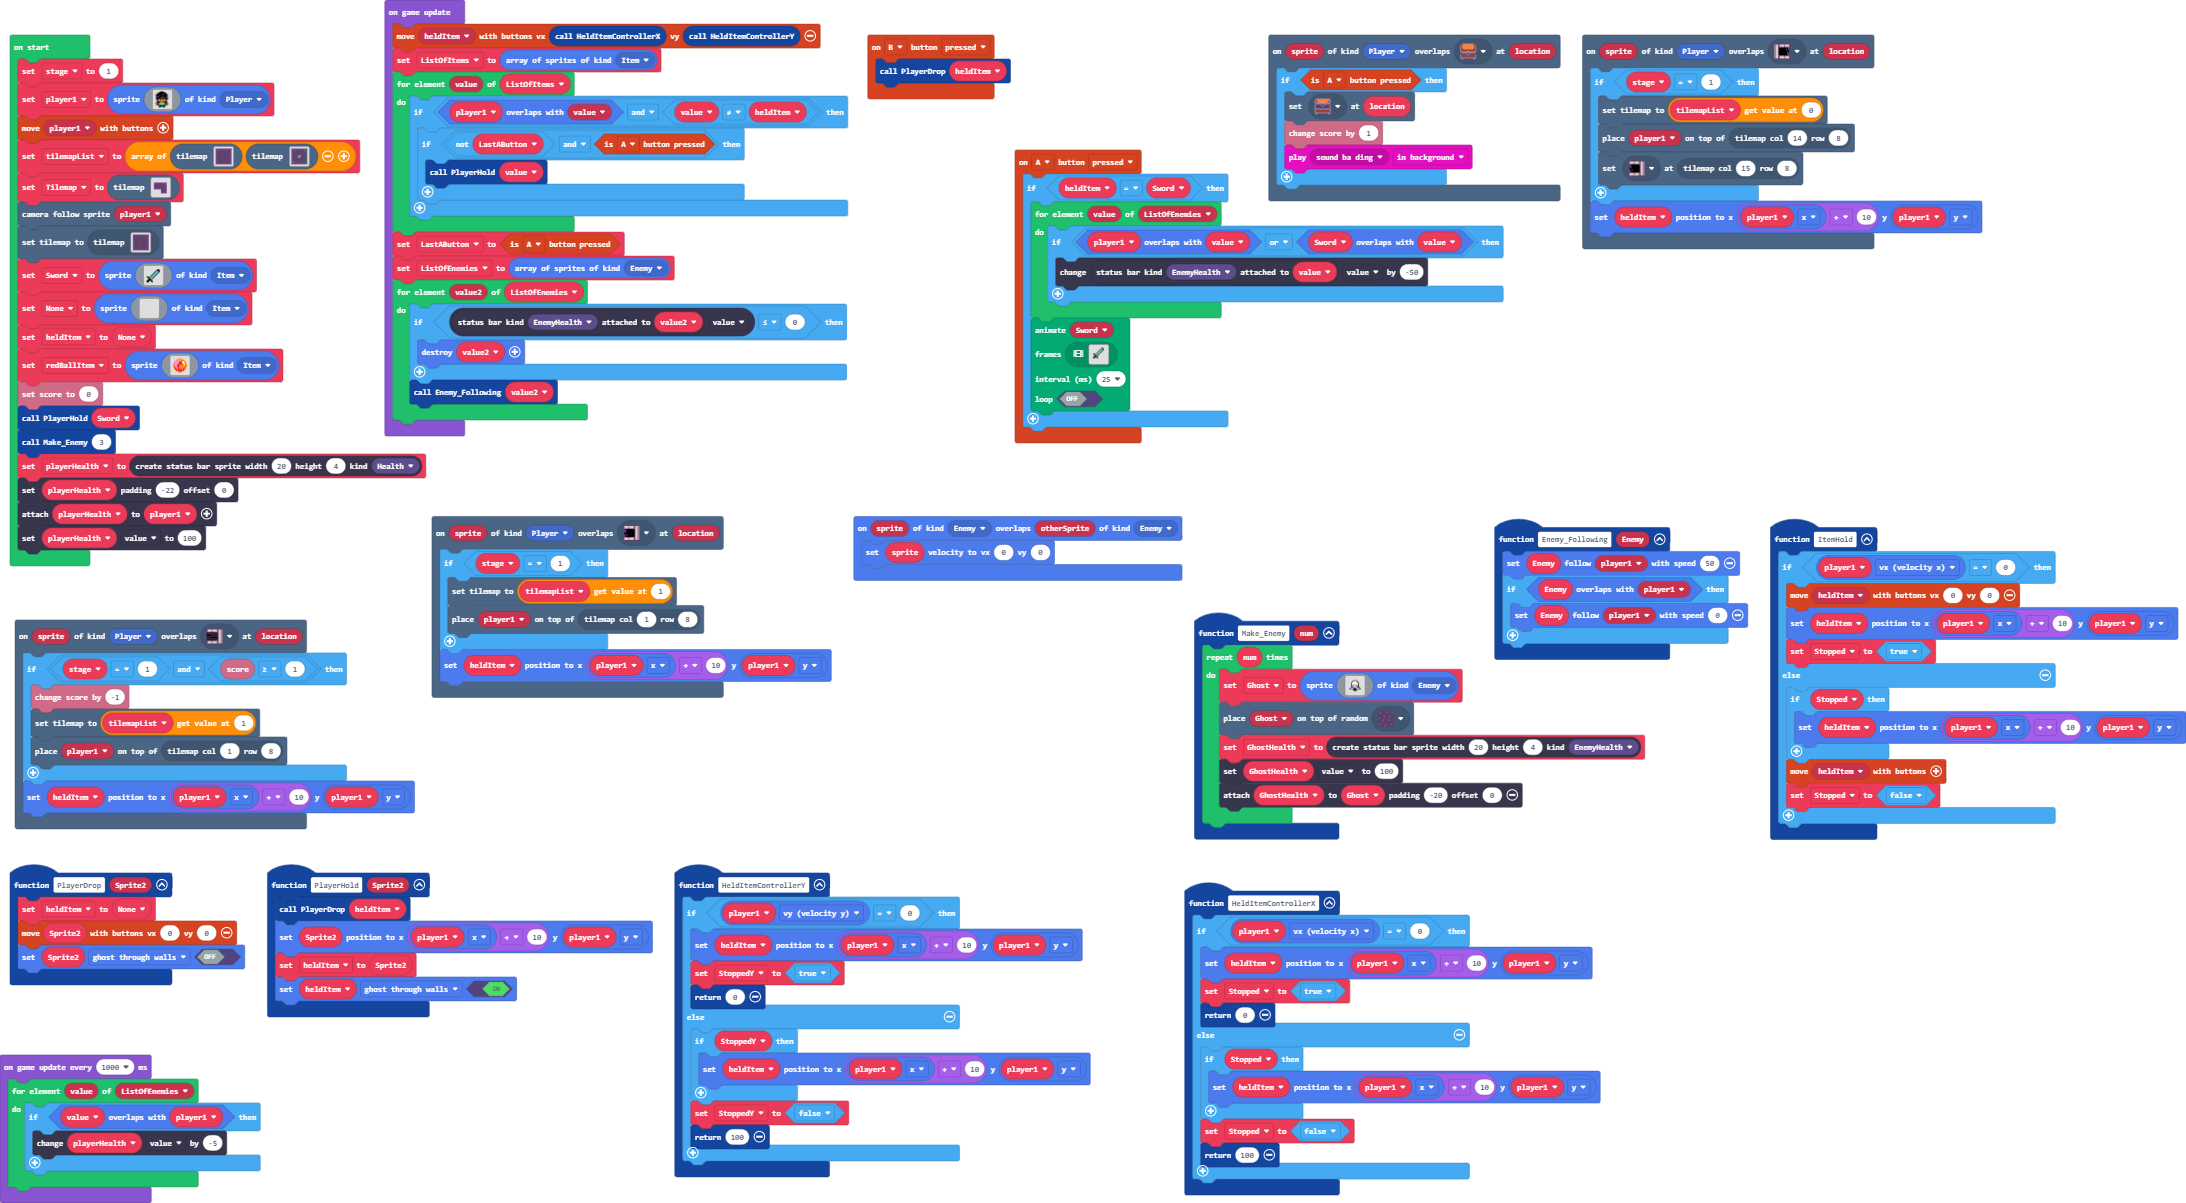
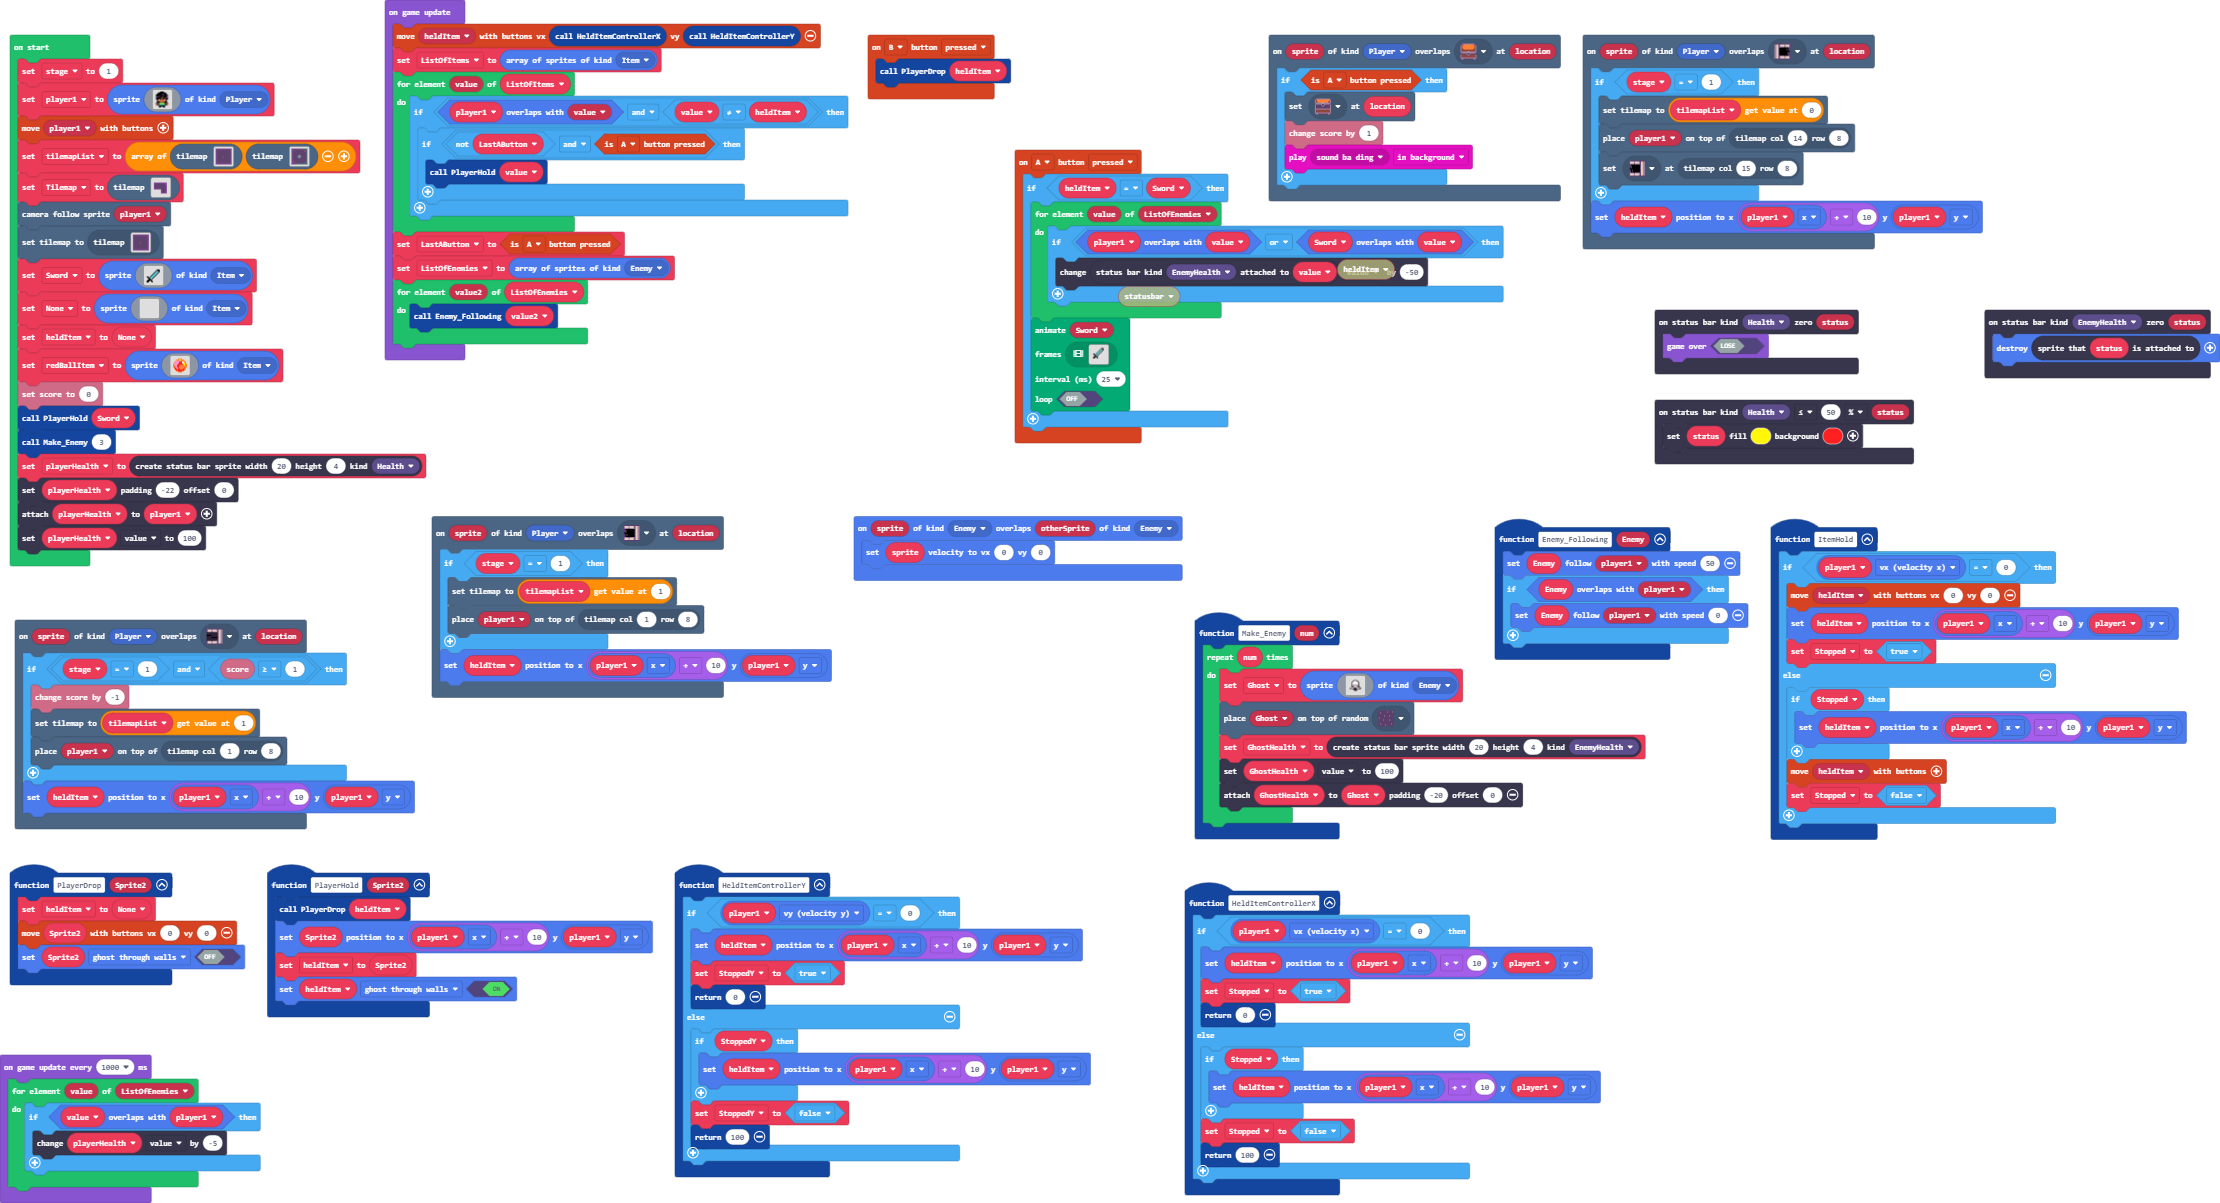
idk

diff --git a/tilemap.g.ts b/tilemap.g.ts
@@ -437,6 +437,82 @@ namespace myTiles {
 . . . . . . . . . . . . . . . . 
 . . . . . . . . . . . . . . . . 
 `, [myTiles.transparency16], TileScale.Sixteen);
+            case "level23":
+            case "level23":return tiles.createTilemap(hex`1000100000000000000000000000000000000000000000000000000000000000000000000000000000000000000000000000000000000000000000000000000000000000000000000000000000000000000000000000000000000000000000000000000000000000000000000000000000000000000000000000000000000000000000000000000000000000000000000000000000000000000000000000000000000000000000000000000000000000000000000000000000000000000000000000000000000000000000000000000000000000000000000000000000000000000000000000000000000000000000000000000000000000000000000000000000000000`, img`
+. . . . . . . . . . . . . . . . 
+. . . . . . . . . . . . . . . . 
+. . . . . . . . . . . . . . . . 
+. . . . . . . . . . . . . . . . 
+. . . . . . . . . . . . . . . . 
+. . . . . . . . . . . . . . . . 
+. . . . . . . . . . . . . . . . 
+. . . . . . . . . . . . . . . . 
+. . . . . . . . . . . . . . . . 
+. . . . . . . . . . . . . . . . 
+. . . . . . . . . . . . . . . . 
+. . . . . . . . . . . . . . . . 
+. . . . . . . . . . . . . . . . 
+. . . . . . . . . . . . . . . . 
+. . . . . . . . . . . . . . . . 
+. . . . . . . . . . . . . . . . 
+`, [myTiles.transparency16], TileScale.Sixteen);
+            case "level24":
+            case "level24":return tiles.createTilemap(hex`1000100000000000000000000000000000000000000000000000000000000000000000000000000000000000000000000000000000000000000000000000000000000000000000000000000000000000000000000000000000000000000000000000000000000000000000000000000000000000000000000000000000000000000000000000000000000000000000000000000000000000000000000000000000000000000000000000000000000000000000000000000000000000000000000000000000000000000000000000000000000000000000000000000000000000000000000000000000000000000000000000000000000000000000000000000000000000`, img`
+. . . . . . . . . . . . . . . . 
+. . . . . . . . . . . . . . . . 
+. . . . . . . . . . . . . . . . 
+. . . . . . . . . . . . . . . . 
+. . . . . . . . . . . . . . . . 
+. . . . . . . . . . . . . . . . 
+. . . . . . . . . . . . . . . . 
+. . . . . . . . . . . . . . . . 
+. . . . . . . . . . . . . . . . 
+. . . . . . . . . . . . . . . . 
+. . . . . . . . . . . . . . . . 
+. . . . . . . . . . . . . . . . 
+. . . . . . . . . . . . . . . . 
+. . . . . . . . . . . . . . . . 
+. . . . . . . . . . . . . . . . 
+. . . . . . . . . . . . . . . . 
+`, [myTiles.transparency16], TileScale.Sixteen);
+            case "level25":
+            case "level25":return tiles.createTilemap(hex`1000100000000000000000000000000000000000000000000000000000000000000000000000000000000000000000000000000000000000000000000000000000000000000000000000000000000000000000000000000000000000000000000000000000000000000000000000000000000000000000000000000000000000000000000000000000000000000000000000000000000000000000000000000000000000000000000000000000000000000000000000000000000000000000000000000000000000000000000000000000000000000000000000000000000000000000000000000000000000000000000000000000000000000000000000000000000000`, img`
+. . . . . . . . . . . . . . . . 
+. . . . . . . . . . . . . . . . 
+. . . . . . . . . . . . . . . . 
+. . . . . . . . . . . . . . . . 
+. . . . . . . . . . . . . . . . 
+. . . . . . . . . . . . . . . . 
+. . . . . . . . . . . . . . . . 
+. . . . . . . . . . . . . . . . 
+. . . . . . . . . . . . . . . . 
+. . . . . . . . . . . . . . . . 
+. . . . . . . . . . . . . . . . 
+. . . . . . . . . . . . . . . . 
+. . . . . . . . . . . . . . . . 
+. . . . . . . . . . . . . . . . 
+. . . . . . . . . . . . . . . . 
+. . . . . . . . . . . . . . . . 
+`, [myTiles.transparency16], TileScale.Sixteen);
+            case "level26":
+            case "level26":return tiles.createTilemap(hex`1000100000000000000000000000000000000000000000000000000000000000000000000000000000000000000000000000000000000000000000000000000000000000000000000000000000000000000000000000000000000000000000000000000000000000000000000000000000000000000000000000000000000000000000000000000000000000000000000000000000000000000000000000000000000000000000000000000000000000000000000000000000000000000000000000000000000000000000000000000000000000000000000000000000000000000000000000000000000000000000000000000000000000000000000000000000000000`, img`
+. . . . . . . . . . . . . . . . 
+. . . . . . . . . . . . . . . . 
+. . . . . . . . . . . . . . . . 
+. . . . . . . . . . . . . . . . 
+. . . . . . . . . . . . . . . . 
+. . . . . . . . . . . . . . . . 
+. . . . . . . . . . . . . . . . 
+. . . . . . . . . . . . . . . . 
+. . . . . . . . . . . . . . . . 
+. . . . . . . . . . . . . . . . 
+. . . . . . . . . . . . . . . . 
+. . . . . . . . . . . . . . . . 
+. . . . . . . . . . . . . . . . 
+. . . . . . . . . . . . . . . . 
+. . . . . . . . . . . . . . . . 
+. . . . . . . . . . . . . . . . 
+`, [myTiles.transparency16], TileScale.Sixteen);
         }
         return null;
     })

diff --git a/main.ts b/main.ts
@@ -291,6 +291,9 @@ scene.onOverlapTile(SpriteKind.Player, sprites.dungeon.doorOpenEast, function (s
     }
     heldItem.setPosition(player1.x + 10, player1.y)
 })
+statusbars.onStatusReached(StatusBarKind.Health, statusbars.StatusComparison.LTE, statusbars.ComparisonType.Percentage, 50, function (status) {
+    status.setColor(5, 2)
+})
 sprites.onOverlap(SpriteKind.Enemy, SpriteKind.Enemy, function (sprite, otherSprite) {
     sprite.setVelocity(0, 0)
 })
@@ -299,6 +302,12 @@ function PlayerDrop (Sprite2: Sprite) {
     controller.moveSprite(Sprite2, 0, 0)
     Sprite2.setFlag(SpriteFlag.GhostThroughWalls, false)
 }
+statusbars.onZero(StatusBarKind.EnemyHealth, function (status) {
+    sprites.destroy(status.spriteAttachedTo())
+})
+statusbars.onZero(StatusBarKind.Health, function (status) {
+    game.gameOver(false)
+})
 function ItemHold () {
     if (player1.vx == 0) {
         controller.moveSprite(heldItem, 0, 0)
@@ -464,9 +473,6 @@ game.onUpdate(function () {
     LastAButton = controller.A.isPressed()
     ListOfEnemies = sprites.allOfKind(SpriteKind.Enemy)
     for (let value2 of ListOfEnemies) {
-        if (statusbars.getStatusBarAttachedTo(StatusBarKind.EnemyHealth, value2).value <= 0) {
-            sprites.destroy(value2)
-        }
         Enemy_Following(value2)
     }
 })
